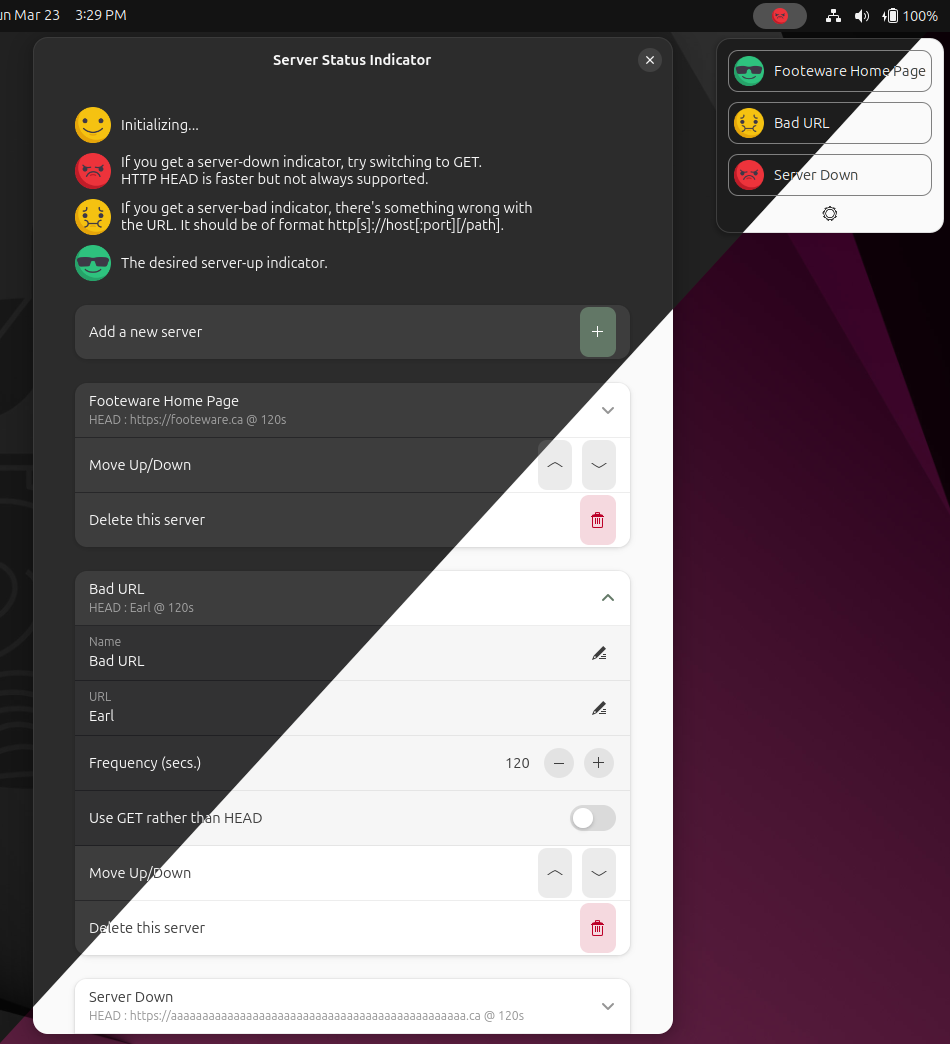
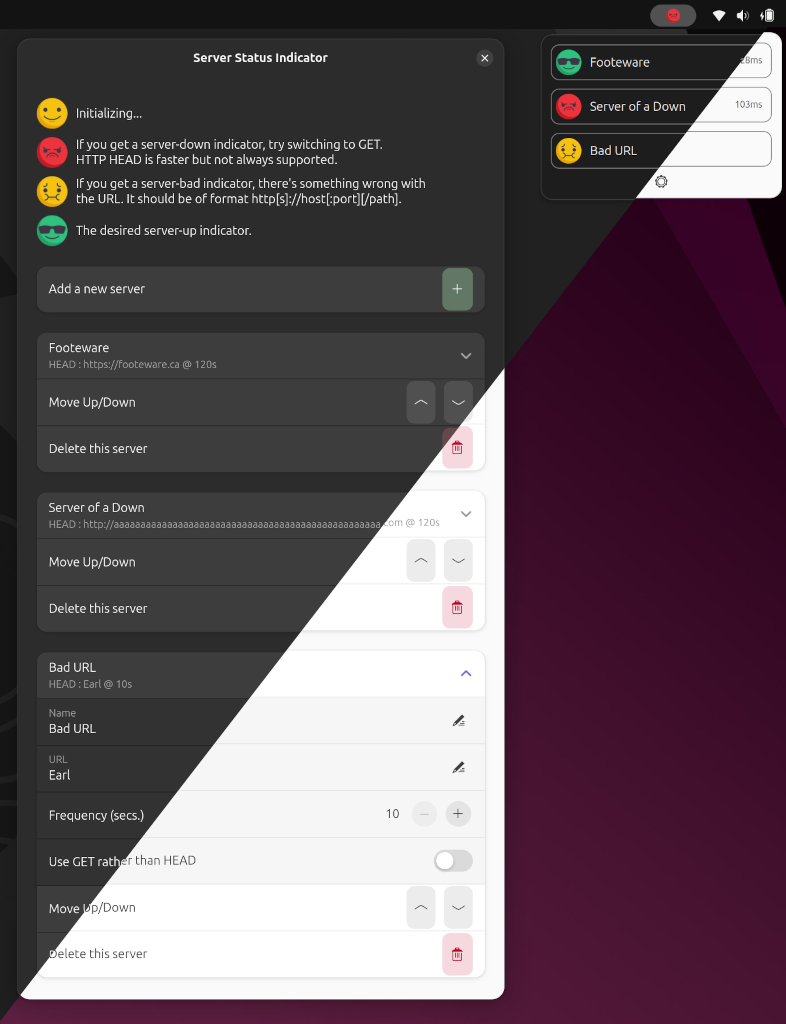
add response time to menu items

diff --git a/serverStatusPanel.js b/serverStatusPanel.js
@@ -54,14 +54,43 @@ export const ServerStatusPanel = GObject.registerClass(
             );
             this.add_child(nameButton);
 
-            // call once then schedule
-            this.update(serverSetting.url, panelIconDisposed);
+            // duration indicator
+            const durationIndicator = new St.Label({
+                text: "",
+                style_class: "duration",
+            });
+            let durationIndicatorDisposed = false;
+            durationIndicator.connect(
+                "destroy",
+                () => (durationIndicatorDisposed = true),
+            );
+            const durationIndicatorContainer = new St.Bin({
+                style_class: "bin",
+                x_expand: true,
+                x_align: Clutter.ActorAlign.END,
+                child: durationIndicator,
+            });
+            this.add_child(durationIndicatorContainer);
 
+            // call once then schedule
+            this.update(
+                serverSetting.url,
+                panelIconDisposed,
+                durationIndicator,
+                durationIndicatorDisposed,
+            );
+
+            // schedule recurring http calls
             this.intervalID = GLib.timeout_add(
                 GLib.PRIORITY_DEFAULT,
                 serverSetting.frequency * 1000,
                 () => {
-                    this.update(serverSetting.url, panelIconDisposed);
+                    this.update(
+                        serverSetting.url,
+                        panelIconDisposed,
+                        durationIndicator,
+                        durationIndicatorDisposed,
+                    );
                     return GLib.SOURCE_CONTINUE;
                 },
             );
@@ -89,11 +118,25 @@ export const ServerStatusPanel = GObject.registerClass(
          *
          * @param {String} url
          * @param {boolean} panelIconDisposed whether the panel icon has been disposed
+         * @param {St.Label} durationIndicator
+         * @param {boolean} durationIndicatorDisposed
          */
-        update(url, panelIconDisposed) {
+        update(
+            url,
+            panelIconDisposed,
+            durationIndicator,
+            durationIndicatorDisposed,
+        ) {
             const httpMethod =
                 this.serverSetting.is_get == "true" ? "GET" : "HEAD";
-            this.get(httpMethod, url, this.panelIcon, panelIconDisposed);
+            this.get(
+                httpMethod,
+                url,
+                this.panelIcon,
+                panelIconDisposed,
+                durationIndicator,
+                durationIndicatorDisposed,
+            );
             return GLib.SOURCE_CONTINUE;
         }
 
@@ -105,15 +148,32 @@ export const ServerStatusPanel = GObject.registerClass(
          * @param {String} url
          * @param {Gio.Icon} panelIcon
          * @param {boolean} panelIconDisposed
+         * @param {St.Label} durationIndicator
+         * @param {boolean} durationIndicatorDisposed
          */
-        get(httpMethod, url, panelIcon, panelIconDisposed) {
+        get(
+            httpMethod,
+            url,
+            panelIcon,
+            panelIconDisposed,
+            durationIndicator,
+            durationIndicatorDisposed,
+        ) {
+            // create http object
             let message = Soup.Message.new(httpMethod, url);
             if (message) {
+                // start duration calc.
+                const start = Date.now();
+                // do the actual http call
                 this.session.send_and_read_async(
                     message,
                     GLib.PRIORITY_DEFAULT,
                     null,
                     () => {
+                        // response received
+                        const duration = Date.now() - start;
+
+                        // parse result if emoji widget hasn't been destroyed
                         if (panelIcon && !panelIconDisposed) {
                             // assume down until proven up
                             let newIcon = this.iconProvider.getIcon(
@@ -136,6 +196,15 @@ export const ServerStatusPanel = GObject.registerClass(
 
                             panelIcon.gicon = newIcon;
                             this.updateTaskbarCallback?.();
+
+                            // update response time label if it hasn't been destroyed
+                            if (
+                                durationIndicator &&
+                                !durationIndicatorDisposed
+                            ) {
+                                durationIndicator.text =
+                                    duration.toString() + "ms";
+                            }
                         }
                         return GLib.SOURCE_REMOVE;
                     },

diff --git a/stylesheet.css b/stylesheet.css
@@ -20,3 +20,13 @@
 .padded {
     padding: 5px;
 }
+
+.duration {
+    font-size: 75%;
+    width: 75px;
+}
+
+.bin {
+    margin: 10px;
+    text-align: right;
+}
